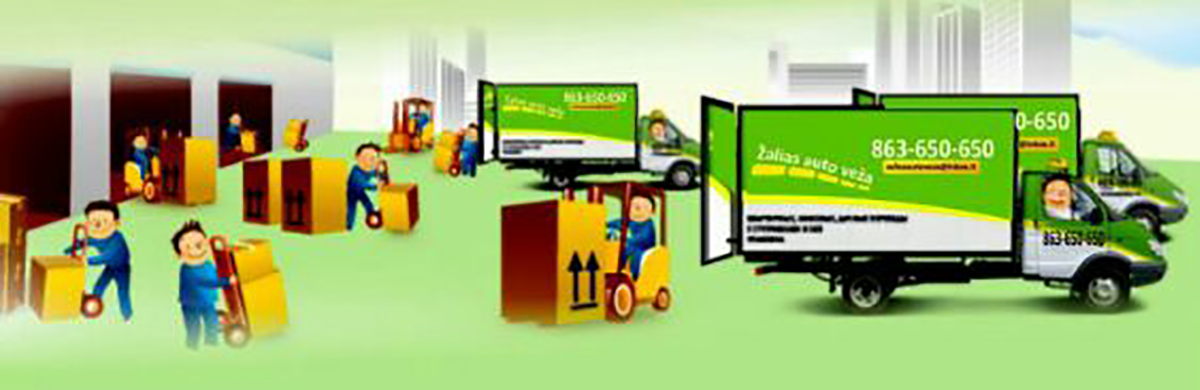
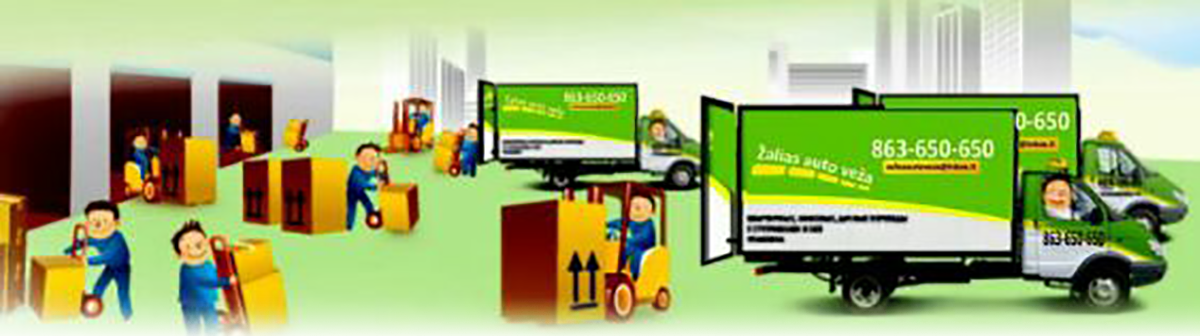
naujas shits

diff --git a/css/header.css b/css/header.css
@@ -1,4 +1,4 @@
-body>.header {	
+body>.header {
 	height: 440px;
 	position: relative;
 	overflow: hidden;
@@ -24,83 +24,15 @@ a.samosklad{
 a.samosklad:hover{
 	text-decoration: none !important;
 }
-.anim {
-	background: url('./images/header/bg.jpg') 0 0 repeat-x;
-}
-.anim.snow {
-	background: url('./images/header/snow/bg_new.png') 0 0 repeat-x;
-}
-.work_snow {	
-	position: absolute;
-	top: -53px;
-	left: -200px;
-	width: 200px;
-	height: 317px;
-	background: url('./images/work/work_snow.png') center no-repeat;
-	z-index: 0;	
-}
-.header>.right>.feb23 {
-	background: url("./images/header/star.png") no-repeat scroll 0% 0% transparent;
-	width: 182px;
-	height: 112px;
-	position: absolute;
-	left: -165px;
-	top: 60px;
-	z-index: 1;
-}
-body > .header.snow > .right .cost {
-	left: -136px;
-}
-body > .header.snow > .right .buts a, body > .header.snow > .right .buts a { 
-	color: #fff;
-}
-body > .header.snow > .right .gerb {
-	z-index: 3;
-}
-body > .header.snow > .right .proezd {
-	left: -220px;
-}
 .new.anim {
 	background: url('../images/header/bg_new.jpg') 0 0 repeat-x;
-}
-.new.anim.snow {
-	background: url('../images/header/snow/bg_new.png') 0 0 repeat-x;
-}
-.header.sochi>.right>.ny {
-	position: absolute;
-	top: 100px;
-	left: -100px;
-	width: 146px;
-	height: 70px;
-	background: url('../images/header/snow/stamp.png') center no-repeat;
-	background-size: cover;
-	z-index: 2;
-}
-.header.sochi>.right>.ny {
-	position: absolute;
-	top: 45px;
-	left: -230px;
-	width: 284px;
-	height: 145px;
-	background: url('../images/header/snow/stamp.png') center no-repeat;
-	z-index: 2;
-}
-
-body>.header>.lang {
-	display: block;
-	position: absolute;
-	top: 28px;
-	left: 545px;
-	width: 90px;
-	height: 22px;
-	background: url('../images/header/sel_lang.png') 0 0 no-repeat;
-	z-index: 2;
 }
 body>.header>.right {
 	position: absolute;
 	right: 80px;
 	width: 35%;
 }
+
 body>.header>.right .logo {
 	position: absolute;
 	top: 5px;
@@ -120,108 +52,11 @@ body>.header>.right .cost {
 	left: -115px;
 	top: 20px;
 }
-body>.header>.right .hand {
-	position: absolute;
-	top: 150px;
-	left: 38px;
-	background: url('../images/header/hand.png') no-repeat center;
-	/*width: 126px;
-	height: 156px;
-	padding-top: 35px;*/
-	width: 160px;
-	height: 160px;
-	text-align: center;
-	padding-top: 45px;
-	z-index: 2;
-}
-body>.header>.right .hand>a {
-	color: #FCEFF5;
-	text-decoration: underline;
-	font-size: 24px;
-}
-body>.header>.right .hand>a:hover {
-	color: #fff;	
-}
-body>.header>.right .taxibubble {
-	position: absolute;
-	top: 120px;
-	left: 150px;
-	background: url('../images/header/ellips.png') no-repeat center;
-	width: 78px;
-	height: 78px;
-	text-align: center;
-	padding-top: 25px;
-	z-index: 3;
-}
-body>.header>.right .taxibubble>a {
-	color: #000;
-	text-decoration: underline;
-	text-transform: uppercase;
-	font-size: 10px;
-	line-height: 17px;
-}
-body>.header>.right .taxibubble>a:hover {
-	color: #000;	
-}
-body>.header>.right .time {
-	position: absolute;
-	top: 170px;
-	left: -200px;
-	z-index: 2;
-}
-body>.header>.right .buts {
-	position: absolute;
-	top: 20px;
-	left: 180px;
-	width: 320px;
-}
-body>.header>.right .buts>div {
-	float: left;	
-}
-body>.header>.right .buts a {
-	line-height: 12px;
-	font-size: 11px;
-	color: #555;
-	text-decoration: none;
-}
-body>.header>.right .buts a:hover {
-	color: #000;
-	text-decoration: underline;	
-}
-body>.header>.right .buts .payment {
-	background: url('../images/header/but_payment.png') 0 3px no-repeat;
-	width: 50px;
-	padding-left: 45px;
-	padding-top: 6px;
-	margin-top: -6px;
-	height: 40px;
-}
-body>.header>.right .buts .callback {
-	background: url('../images/header/but_callback.png') 0 3px no-repeat;
-	width: 60px;
-	padding-left: 48px;
-	padding-top: 6px;
-	margin-top: -6px;
-	height: 45px;
-}
-body>.header>.right .buts .comments {
-	background: url('../images/header/but_comments.png') 0 3px no-repeat;
-	padding-left: 14px;
-	padding-top: 19px;
-	width: 60px;
-	height: 32px;
-	margin-top: -7px;
-	margin-left: 5px;
-}
-body>.header>.right .buts .comments a {
-	color: #FFF;
-	font-size: 12px;
-	font-weight: bold;
-}
+
 body>.header>.right .trans {
 	position: absolute;
 	top: 240px;
-	left: 100px;
+	left: -50px;
 	width: 300px;	
 }
 body>.header>.right .trans a {
@@ -242,153 +77,4 @@ body>.header>.right .trans>.title h1 {
 }
 body>.header>.right .trans>.title a:hover {
 	color: #fff;
-}
-body>.header>.menu {
-	position: absolute;
-	top: 240px;
-	left: 80px;
-	display: table;	
-	width: 60%;
-	height: 121px;
-}
-body>.header>.menu>div {
-	display: table-cell;
-	position: relative;
-}
-body>.header>.menu>div>div {
-	min-width: 130px;
-}
-body>.header>.menu .title a {
-	text-shadow: 0.1em 0.1em 0.2em #000;
-	font-family: arial, helvetica, sans-serif;
-	font-size: 15px;
-	font-weight: bold;
-	color: #FFF;
-	text-transform: uppercase;
-}
-body>.header>.menu a {
-	font-size: 13px;
-	color: #000;
-	text-decoration: none;
-}
-body>.header>.menu a:hover {
-	text-decoration: underline;	
-}
-body>.header>.menu .packingshop {
-	display: block;
-	background: url('../images/header/packingshop.png') 0 0 no-repeat;
-	width: 98px;
-	height: 64px;
-	margin-top: 33px;
-	margin-left: -3px;
-}
-body>.header .submenu-head {
-	position: absolute;
-	top: 356px;
-	left: 70px;
-	display: table;
-	height: 25px;
-}
-body>.header.new .submenu-head {
-	top: 352px;
-}
-body>.header .submenu-head>div {
-	display: table-cell;
-	background: url('../images/header/submenu_but.png') no-repeat;
-	width: 175px;
-	height: 27px;
-	text-align: center;
-	padding-top: 7px;
-	min-width: 175px;
-}
-body>.header.new .submenu-head>div {
-	background: none;
-	vertical-align: bottom;
-}
-
-body>.header .submenu-head>div.active {
-	background-image: url('../images/header/submenu_but_act.png');
-}
-body>.header.new .submenu-head>div.active {
-	background: none;
-}
-body>.header .submenu-head>div.yellow {
-	background-image: url('../images/header/submenu_but_yellow.png');
-}
-
-body>.header.new .submenu-head>div {
-	width: auto;
-	--background: #90ce2d;
-	padding: 0;
-	height: 10px;
-	min-width: inherit;
-}
-
-body>.header .submenu-head>div a {
-	font-weight: bold;
-	text-transform: uppercase;
-	font-size: 11px;
-	color: #555;
-	text-decoration: none;
-}
-body>.header.new .submenu-head>div a {
-	font-size: 11px;
-	line-height: 15px;
-	color: #fff;
-	display: block;
-	padding: 2px 10px;
-	background: #90ce2d;
-	margin-right: 1px;
-	margin-bottom: 1px;
-	text-shadow: 1px 1px 2px rgba(0,0,0,0.5);
-	margin-top: 7px;
-}
-
-body>.header.new .submenu-head>div.active a {
-	background: #9fe62d;
-	padding: 6px 10px;
-	margin-bottom: 0;
-	color: #000 !important;
-	text-shadow: none;
-	margin-top: 0;
-}
-body>.header .submenu-head>div a:hover {
-	text-decoration: underline;
-	color: #000;
-}
-body>.header.new .submenu-head>div a:hover {
-	text-decoration: underline;
-	color: #fff;
-}
-body>.header.new .submenu-head>div.active a:hover {
-	color: #000;
-}
-body>.header.new .submenu-head>div.lang {
-	padding-left: 10px;
-}
-body>.header.new .submenu-head>div.lang a {
-	padding: 0;
-}
-body>.header .submenu {
-	position: absolute;
-	top: 390px;
-	left: 90px;
-	display: table;	
-	width: 90%;
-}
-body>.header .submenu>div {
-	display: table-cell;
-	background: url('../images/header/submenu_arrow.png') no-repeat;
-	padding-left: 25px;
-	padding-right: 10px;
-	min-width: 70px;
-}
-body>.header .submenu>div a {
-	color: #555;
-	font-size: 11px;
-	text-decoration: none;
-}
-body>.header .submenu>div a:hover {
-	color: #000;
-	text-decoration: underline;
 }

diff --git a/index.html b/index.html
@@ -36,7 +36,6 @@
 				<div class="phone">
 					<img src="./view/spb/include/cars/images/phone.png" alt="" />
 					<img src="./view/spb/include/cars/images/phone-num.png" alt="" />
-					<a href="">
 				</div>	
 				<div class="car">
 					<img src="./view/spb/include/cars/images/cars/car_big_1_1_body.png" alt="" />
@@ -44,8 +43,9 @@
 				</div>	
 			</div>
 			<div class="right">
-				<div class="logo"><a href="../."><img src="./images/header/logo.png" alt="ГрузовичкоФ" /></a></div>
-				<!-- <div class="taxibubble"></div> -->
+				<div class="logo">
+					<img src="./images/header/logo.png" alt="zaliasautoveza" />
+				</div>
 				<div class="trans">
 					<div class="title"><h1>Mes pasiruošę<br/>visada jums padėti!</h1></div>
 				</div>

diff --git a/css/main.css b/css/main.css
@@ -1,6 +1,6 @@
-#footer {
+/*#footer {
 	background-color: white
-}
+}*/
 
 #footer img{
 	display: block;
